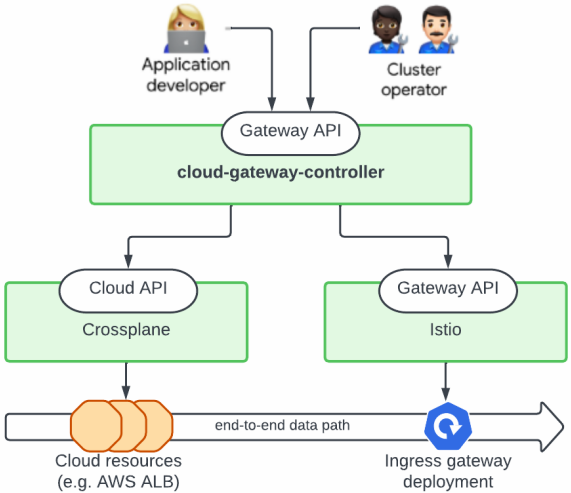
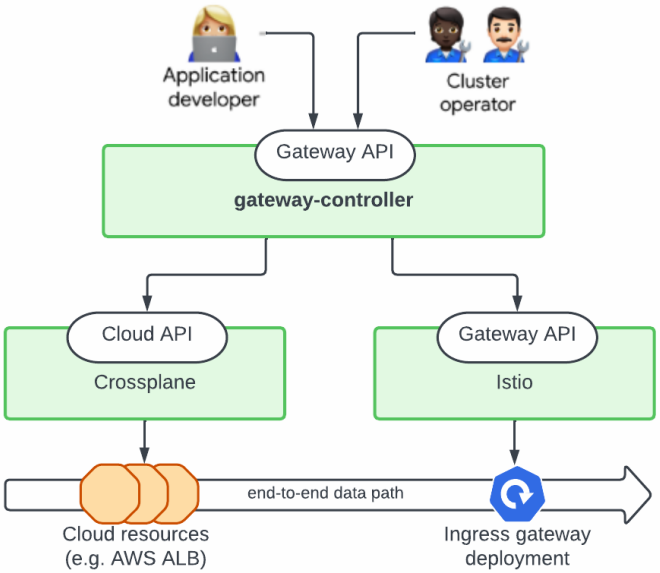
Rebrand from cloud-gateway-controller to gateway-controller

diff --git a/test/e2e/controller_self_test.go b/test/e2e/controller_self_test.go
@@ -37,8 +37,8 @@ import (
 	"sigs.k8s.io/controller-runtime/pkg/client"
 	gatewayapi "sigs.k8s.io/gateway-api/apis/v1beta1"
 
-	cgcapi "github.com/tv2/cloud-gateway-controller/apis/cgc.tv2.dk/v1alpha1"
-	cgwctlapi "github.com/tv2/cloud-gateway-controller/pkg/api"
+	gcapi "github.com/tv2-oss/gateway-controller/apis/gateway.tv2.dk/v1alpha1"
+	gwctlapi "github.com/tv2-oss/gateway-controller/pkg/api"
 )
 
 const gatewayclassManifest string = `
@@ -47,14 +47,14 @@ kind: GatewayClass
 metadata:
   name: cloud-gw
 spec:
-  controllerName: "github.com/tv2/cloud-gateway-controller"
+  controllerName: "github.com/tv2-oss/gateway-controller"
   parametersRef:
     group: v1alpha1
     kind: GatewayClassParameters
     name: default-gateway-class`
 
 const gwClassParametersManifest string = `
-apiVersion: cgc.tv2.dk/v1alpha1
+apiVersion: gateway.tv2.dk/v1alpha1
 kind: GatewayClassParameters
 metadata:
   name: default-gateway-class
@@ -144,7 +144,7 @@ var _ = Describe("GatewayClass", func() {
 			// We deliberately sleep here to make the controller initially see the GatewayClass without its corresponding parameters
 			time.Sleep(5 * time.Second)
 
-			gcp := &cgcapi.GatewayClassParameters{}
+			gcp := &gcapi.GatewayClassParameters{}
 			Expect(yaml.Unmarshal([]byte(gwClassParametersManifest), gcp)).To(Succeed())
 			Expect(k8sClient.Create(ctx, gcp)).Should(Succeed())
 
@@ -184,7 +184,7 @@ var _ = Describe("Gateway addresses", func() {
 	BeforeEach(func() {
 		ip4AddressRe = regexp.MustCompile(`^((25[0-5]|(2[0-4]|1\d|[1-9]|)\d)\.?\b){4}$`)
 		hostnameRe = regexp.MustCompile(`^([a-zA-Z0-9]|[a-zA-Z0-9][a-zA-Z0-9\-]{0,61}[a-zA-Z0-9])(\.([a-zA-Z0-9]|[a-zA-Z0-9][a-zA-Z0-9\-]{0,61}[a-zA-Z0-9]))*$`)
-		gcp := &cgcapi.GatewayClassParameters{}
+		gcp := &gcapi.GatewayClassParameters{}
 		Expect(yaml.Unmarshal([]byte(gwClassParametersManifest), gcp)).To(Succeed())
 		Expect(k8sClient.Create(ctx, gcp)).Should(Succeed())
 
@@ -253,7 +253,7 @@ var _ = Describe("Gateway addresses", func() {
 					string(rtRead.Status.RouteStatus.Parents[0].ParentRef.Name) != gw.ObjectMeta.Name ||
 					// Namespace is optional, if defined it must match HTTPRoute namespace
 					(rtRead.Status.RouteStatus.Parents[0].ParentRef.Namespace != nil && string(*rtRead.Status.RouteStatus.Parents[0].ParentRef.Namespace) != gw.ObjectMeta.Namespace) ||
-					rtRead.Status.RouteStatus.Parents[0].ControllerName != cgwctlapi.SelfControllerName ||
+					rtRead.Status.RouteStatus.Parents[0].ControllerName != gwctlapi.SelfControllerName ||
 					rtRead.Status.RouteStatus.Parents[0].Conditions[0].Type != string(gatewayapi.RouteConditionAccepted) ||
 					rtRead.Status.RouteStatus.Parents[0].Conditions[0].Status != "True" {
 					return false

diff --git a/controllers/common.go b/controllers/common.go
@@ -16,8 +16,8 @@ import (
 	"sigs.k8s.io/controller-runtime/pkg/client"
 	gatewayapi "sigs.k8s.io/gateway-api/apis/v1beta1"
 
-	cgcapi "github.com/tv2/cloud-gateway-controller/apis/cgc.tv2.dk/v1alpha1"
-	selfapi "github.com/tv2/cloud-gateway-controller/pkg/api"
+	gcapi "github.com/tv2-oss/gateway-controller/apis/gateway.tv2.dk/v1alpha1"
+	selfapi "github.com/tv2-oss/gateway-controller/pkg/api"
 )
 
 type ControllerClient interface {
@@ -43,17 +43,17 @@ func lookupGatewayClass(ctx context.Context, r ControllerClient, name gatewayapi
 	return &gwc, nil
 }
 
-func lookupGatewayClassParameters(ctx context.Context, r ControllerClient, gwc *gatewayapi.GatewayClass) (*cgcapi.GatewayClassParameters, error) {
+func lookupGatewayClassParameters(ctx context.Context, r ControllerClient, gwc *gatewayapi.GatewayClass) (*gcapi.GatewayClassParameters, error) {
 	if gwc.Spec.ParametersRef == nil {
 		return nil, errors.New("GatewayClass without parameters")
 	}
 
 	// FIXME: More validation...
-	if gwc.Spec.ParametersRef.Kind != "GatewayClassParameters" {
-		return nil, errors.New("parameter Kind is not a GatewayClassParameters")
+	if gwc.Spec.ParametersRef.Kind != "GatewayClassParameters" || gwc.Spec.ParametersRef.Group != "gateway.tv2.dk" {
+		return nil, errors.New("parameter Kind is not a valid GatewayClassParameters")
 	}
 
-	var gcp cgcapi.GatewayClassParameters
+	var gcp gcapi.GatewayClassParameters
 	if err := r.Client().Get(ctx, types.NamespacedName{Name: gwc.Spec.ParametersRef.Name}, &gcp); err != nil {
 		return nil, err
 	}
@@ -72,6 +72,8 @@ func lookupGateway(ctx context.Context, r ControllerClient, name gatewayapi.Obje
 func template2Unstructured(templateData string, templateValues any) (*unstructured.Unstructured, error) {
 	renderBuffer, err := templateRender(templateData, templateValues)
 	if err != nil {
+		fmt.Printf("Template:\n%s\n", templateData)
+		fmt.Printf("Template values:\n%s\n", templateValues)
 		return nil, err
 	}
 

diff --git a/controllers/gateway_controller.go b/controllers/gateway_controller.go
@@ -33,7 +33,7 @@ import (
 	"sigs.k8s.io/controller-runtime/pkg/log"
 	gatewayapi "sigs.k8s.io/gateway-api/apis/v1beta1"
 
-	cgcapi "github.com/tv2/cloud-gateway-controller/apis/cgc.tv2.dk/v1alpha1"
+	gcapi "github.com/tv2-oss/gateway-controller/apis/gateway.tv2.dk/v1alpha1"
 )
 
 // Used to requeue when a resource is missing a dependency
@@ -152,7 +152,7 @@ func (r *GatewayReconciler) Reconcile(ctx context.Context, req ctrl.Request) (ct
 	addrType := gatewayapi.IPAddressType
 	g.Status.Addresses = []gatewayapi.GatewayAddress{gatewayapi.GatewayAddress{Type: &addrType, Value: "1.2.3.4"}}
 
-	// FIXME: Set real status conditions
+	// FIXME: Set real status conditions calculated from child resources
 	lStatus := make([]gatewayapi.ListenerStatus, 0, len(g.Spec.Listeners))
 	for _, listener := range g.Spec.Listeners {
 		status := gatewayapi.ListenerStatus{
@@ -186,7 +186,7 @@ func (r *GatewayReconciler) Reconcile(ctx context.Context, req ctrl.Request) (ct
 	return ctrl.Result{}, nil
 }
 
-func applyGatewayTemplates(ctx context.Context, r ControllerDynClient, gwParent *gatewayapi.Gateway, params *cgcapi.GatewayClassParameters, templateValues gatewayTemplateValues) error {
+func applyGatewayTemplates(ctx context.Context, r ControllerDynClient, gwParent *gatewayapi.Gateway, params *gcapi.GatewayClassParameters, templateValues gatewayTemplateValues) error {
 	for tmplKey, tmpl := range params.Spec.GatewayTemplate.ResourceTemplates {
 		u, err := template2Unstructured(tmpl, &templateValues)
 		if err != nil {

diff --git a/controllers/gatewayclass_controller_test.go b/controllers/gatewayclass_controller_test.go
@@ -7,7 +7,7 @@ import (
 	. "github.com/onsi/ginkgo/v2"
 	. "github.com/onsi/gomega"
 
-	cgcapi "github.com/tv2/cloud-gateway-controller/apis/cgc.tv2.dk/v1alpha1"
+	cgcapi "github.com/tv2-oss/gateway-controller/apis/gateway.tv2.dk/v1alpha1"
 	"k8s.io/apimachinery/pkg/types"
 	"k8s.io/apimachinery/pkg/util/yaml"
 	gateway "sigs.k8s.io/gateway-api/apis/v1beta1"
@@ -19,9 +19,9 @@ kind: GatewayClass
 metadata:
   name: cloud-gw
 spec:
-  controllerName: "github.com/tv2/cloud-gateway-controller"
+  controllerName: "github.com/tv2-oss/gateway-controller"
   parametersRef:
-    group: v1alpha1
+    group: gateway.tv2.dk
     kind: GatewayClassParameters
     name: default-gateway-class`
 
@@ -31,7 +31,7 @@ kind: GatewayClass
 metadata:
   name: cloud-gw-invalid
 spec:
-  controllerName: "github.com/tv2/cloud-gateway-controller"`
+  controllerName: "github.com/tv2-oss/gateway-controller"`
 
 const gatewayclassManifestNotOurs string = `
 apiVersion: gateway.networking.k8s.io/v1beta1
@@ -39,10 +39,10 @@ kind: GatewayClass
 metadata:
   name: not-our-gatewayclass
 spec:
-  controllerName: "github.com/acme/cloud-gateway-controller"`
+  controllerName: "github.com/acme/gateway-controller"`
 
 const gwClassParametersManifest string = `
-apiVersion: cgc.tv2.dk/v1alpha1
+apiVersion: gateway.tv2.dk/v1alpha1
 kind: GatewayClassParameters
 metadata:
   name: default-gateway-class

diff --git a/controllers/httproute_controller.go b/controllers/httproute_controller.go
@@ -31,8 +31,8 @@ import (
 	"sigs.k8s.io/controller-runtime/pkg/log"
 	gatewayapi "sigs.k8s.io/gateway-api/apis/v1beta1"
 
-	cgcapi "github.com/tv2/cloud-gateway-controller/apis/cgc.tv2.dk/v1alpha1"
-	selfapi "github.com/tv2/cloud-gateway-controller/pkg/api"
+	cgcapi "github.com/tv2-oss/gateway-controller/apis/gateway.tv2.dk/v1alpha1"
+	selfapi "github.com/tv2-oss/gateway-controller/pkg/api"
 )
 
 type HTTPRouteReconciler struct {
@@ -188,7 +188,7 @@ func (r *HTTPRouteReconciler) Reconcile(ctx context.Context, req ctrl.Request) (
 
 		gwc, err := lookupGatewayClass(ctx, r, gw.Spec.GatewayClassName)
 		if err != nil {
-			logger.Info("gatewayClass not found", "gatewayclass", gw.Spec.GatewayClassName)
+			logger.Info("gatewayClass not found", "gatewayclassname", gw.Spec.GatewayClassName)
 			requeue = true
 			continue
 		}
@@ -198,7 +198,7 @@ func (r *HTTPRouteReconciler) Reconcile(ctx context.Context, req ctrl.Request) (
 
 		gcp, err := lookupGatewayClassParameters(ctx, r, gwc)
 		if err != nil {
-			logger.Info("parameters for GatewayClass not found", "gatewayclass", gwc)
+			logger.Info("parameters for GatewayClass not found", "gatewayclassparameters", gwc.ObjectMeta.Name)
 			requeue = true
 			continue
 		}

diff --git a/main.go b/main.go
@@ -32,8 +32,8 @@ import (
 	"sigs.k8s.io/controller-runtime/pkg/log/zap"
 	gateway "sigs.k8s.io/gateway-api/apis/v1beta1"
 
-	cgctv2dkv1alpha1 "github.com/tv2/cloud-gateway-controller/apis/cgc.tv2.dk/v1alpha1"
-	"github.com/tv2/cloud-gateway-controller/controllers"
+	gctv2dkv1alpha1 "github.com/tv2-oss/gateway-controller/apis/gateway.tv2.dk/v1alpha1"
+	"github.com/tv2-oss/gateway-controller/controllers"
 	//+kubebuilder:scaffold:imports
 )
 
@@ -49,7 +49,7 @@ var (
 func init() {
 	utilruntime.Must(clientgoscheme.AddToScheme(scheme))
 	utilruntime.Must(gateway.AddToScheme(scheme))
-	utilruntime.Must(cgctv2dkv1alpha1.AddToScheme(scheme))
+	utilruntime.Must(gctv2dkv1alpha1.AddToScheme(scheme))
 	//+kubebuilder:scaffold:scheme
 }
 
@@ -69,7 +69,7 @@ func main() {
 	flag.Parse()
 
 	ctrl.SetLogger(zap.New(zap.UseFlagOptions(&opts)))
-	setupLog.Info("cloud-gateway-controller", "version", version, "build-date", date, "commit", commit)
+	setupLog.Info("gateway-controller", "version", version, "build-date", date, "commit", commit)
 
 	config := ctrl.GetConfigOrDie()
 	mgr, err := ctrl.NewManager(config, ctrl.Options{

diff --git a/controllers/gatewayclass_controller.go b/controllers/gatewayclass_controller.go
@@ -39,9 +39,9 @@ type GatewayClassReconciler struct {
 //+kubebuilder:rbac:groups=gateway.networking.k8s.io,resources=gatewayclasses/status,verbs=get;update;patch
 //+kubebuilder:rbac:groups=gateway.networking.k8s.io,resources=gatewayclasses/finalizers,verbs=update
 
-//+kubebuilder:rbac:groups=cgc.tv2.dk,resources=gatewayclassparameters,verbs=get;list;watch
-//+kubebuilder:rbac:groups=cgc.tv2.dk,resources=gatewayclassparameters/status,verbs=get;update;patch
-//+kubebuilder:rbac:groups=cgc.tv2.dk,resources=gatewayclassparameters/finalizers,verbs=update
+//+kubebuilder:rbac:groups=gateway.tv2.dk,resources=gatewayclassparameters,verbs=get;list;watch
+//+kubebuilder:rbac:groups=gateway.tv2.dk,resources=gatewayclassparameters/status,verbs=get;update;patch
+//+kubebuilder:rbac:groups=gateway.tv2.dk,resources=gatewayclassparameters/finalizers,verbs=update
 
 func (r *GatewayClassReconciler) Client() client.Client {
 	return r.client

diff --git a/controllers/gateway_controller_test.go b/controllers/gateway_controller_test.go
@@ -7,7 +7,7 @@ import (
 
 	. "github.com/onsi/ginkgo/v2"
 	. "github.com/onsi/gomega"
-	cgcapi "github.com/tv2/cloud-gateway-controller/apis/cgc.tv2.dk/v1alpha1"
+	cgcapi "github.com/tv2-oss/gateway-controller/apis/gateway.tv2.dk/v1alpha1"
 	v1 "k8s.io/apimachinery/pkg/apis/meta/v1"
 	"k8s.io/apimachinery/pkg/types"
 	"k8s.io/apimachinery/pkg/util/yaml"
@@ -20,9 +20,9 @@ kind: GatewayClass
 metadata:
   name: default
 spec:
-  controllerName: "github.com/tv2/cloud-gateway-controller"
+  controllerName: "github.com/tv2-oss/gateway-controller"
   parametersRef:
-    group: v1alpha1
+    group: gateway.tv2.dk
     kind: GatewayClassParameters
     name: default-gateway-class`
 
@@ -42,7 +42,7 @@ spec:
 `
 
 const gatewayClassParametersManifest string = `
-apiVersion: cgc.tv2.dk/v1alpha1
+apiVersion: gateway.tv2.dk/v1alpha1
 kind: GatewayClassParameters
 metadata:
   name: default-gateway-class

diff --git a/apis/gateway.tv2.dk/v1alpha1/groupversion_info.go b/apis/gateway.tv2.dk/v1alpha1/groupversion_info.go
@@ -14,9 +14,9 @@ See the License for the specific language governing permissions and
 limitations under the License.
 */
 
-// Package v1alpha1 contains API Schema definitions for the cgc.tv2.dk v1alpha1 API group
+// Package v1alpha1 contains API Schema definitions for the gateway.tv2.dk v1alpha1 API group
 // +kubebuilder:object:generate=true
-// +groupName=cgc.tv2.dk
+// +groupName=gateway.tv2.dk
 package v1alpha1
 
 import (
@@ -26,7 +26,7 @@ import (
 
 var (
 	// GroupVersion is group version used to register these objects
-	GroupVersion = schema.GroupVersion{Group: "cgc.tv2.dk", Version: "v1alpha1"}
+	GroupVersion = schema.GroupVersion{Group: "gateway.tv2.dk", Version: "v1alpha1"}
 
 	// SchemeBuilder is used to add go types to the GroupVersionKind scheme
 	SchemeBuilder = &scheme.Builder{GroupVersion: GroupVersion}

diff --git a/test/e2e/e2e_suite_test.go b/test/e2e/e2e_suite_test.go
@@ -23,7 +23,7 @@ import (
 
 	. "github.com/onsi/ginkgo/v2"
 	. "github.com/onsi/gomega"
-	cgcapi "github.com/tv2/cloud-gateway-controller/apis/cgc.tv2.dk/v1alpha1"
+	gcapi "github.com/tv2-oss/gateway-controller/apis/gateway.tv2.dk/v1alpha1"
 	"k8s.io/apimachinery/pkg/runtime/schema"
 	"k8s.io/apimachinery/pkg/runtime/serializer"
 	"k8s.io/client-go/kubernetes/scheme"
@@ -75,7 +75,7 @@ var _ = BeforeSuite(func() {
 	err = gatewayapi.AddToScheme(scheme.Scheme)
 	Expect(err).NotTo(HaveOccurred())
 
-	err = cgcapi.AddToScheme(scheme.Scheme)
+	err = gcapi.AddToScheme(scheme.Scheme)
 	Expect(err).NotTo(HaveOccurred())
 
 	k8sClient, err = client.New(cfg, client.Options{Scheme: scheme.Scheme})

diff --git a/controllers/suite_test.go b/controllers/suite_test.go
@@ -21,7 +21,7 @@ import (
 	"path/filepath"
 	"testing"
 
-	cgcapi "github.com/tv2/cloud-gateway-controller/apis/cgc.tv2.dk/v1alpha1"
+	gcapi "github.com/tv2-oss/gateway-controller/apis/gateway.tv2.dk/v1alpha1"
 	ctrl "sigs.k8s.io/controller-runtime"
 	gateway "sigs.k8s.io/gateway-api/apis/v1beta1"
 
@@ -74,7 +74,7 @@ var _ = BeforeSuite(func() {
 	err = gateway.AddToScheme(scheme.Scheme)
 	Expect(err).NotTo(HaveOccurred())
 
-	err = cgcapi.AddToScheme(scheme.Scheme)
+	err = gcapi.AddToScheme(scheme.Scheme)
 	Expect(err).NotTo(HaveOccurred())
 
 	//+kubebuilder:scaffold:scheme

diff --git a/test/unit/unitsuite_test.go b/test/unit/unitsuite_test.go
@@ -22,7 +22,7 @@ import (
 	"strings"
 	"testing"
 
-	"github.com/tv2/cloud-gateway-controller/test/unit/tests"
+	"github.com/tv2-oss/gateway-controller/test/unit/tests"
 
 	"sigs.k8s.io/gateway-api/apis/v1alpha2"
 	"sigs.k8s.io/gateway-api/apis/v1beta1"
